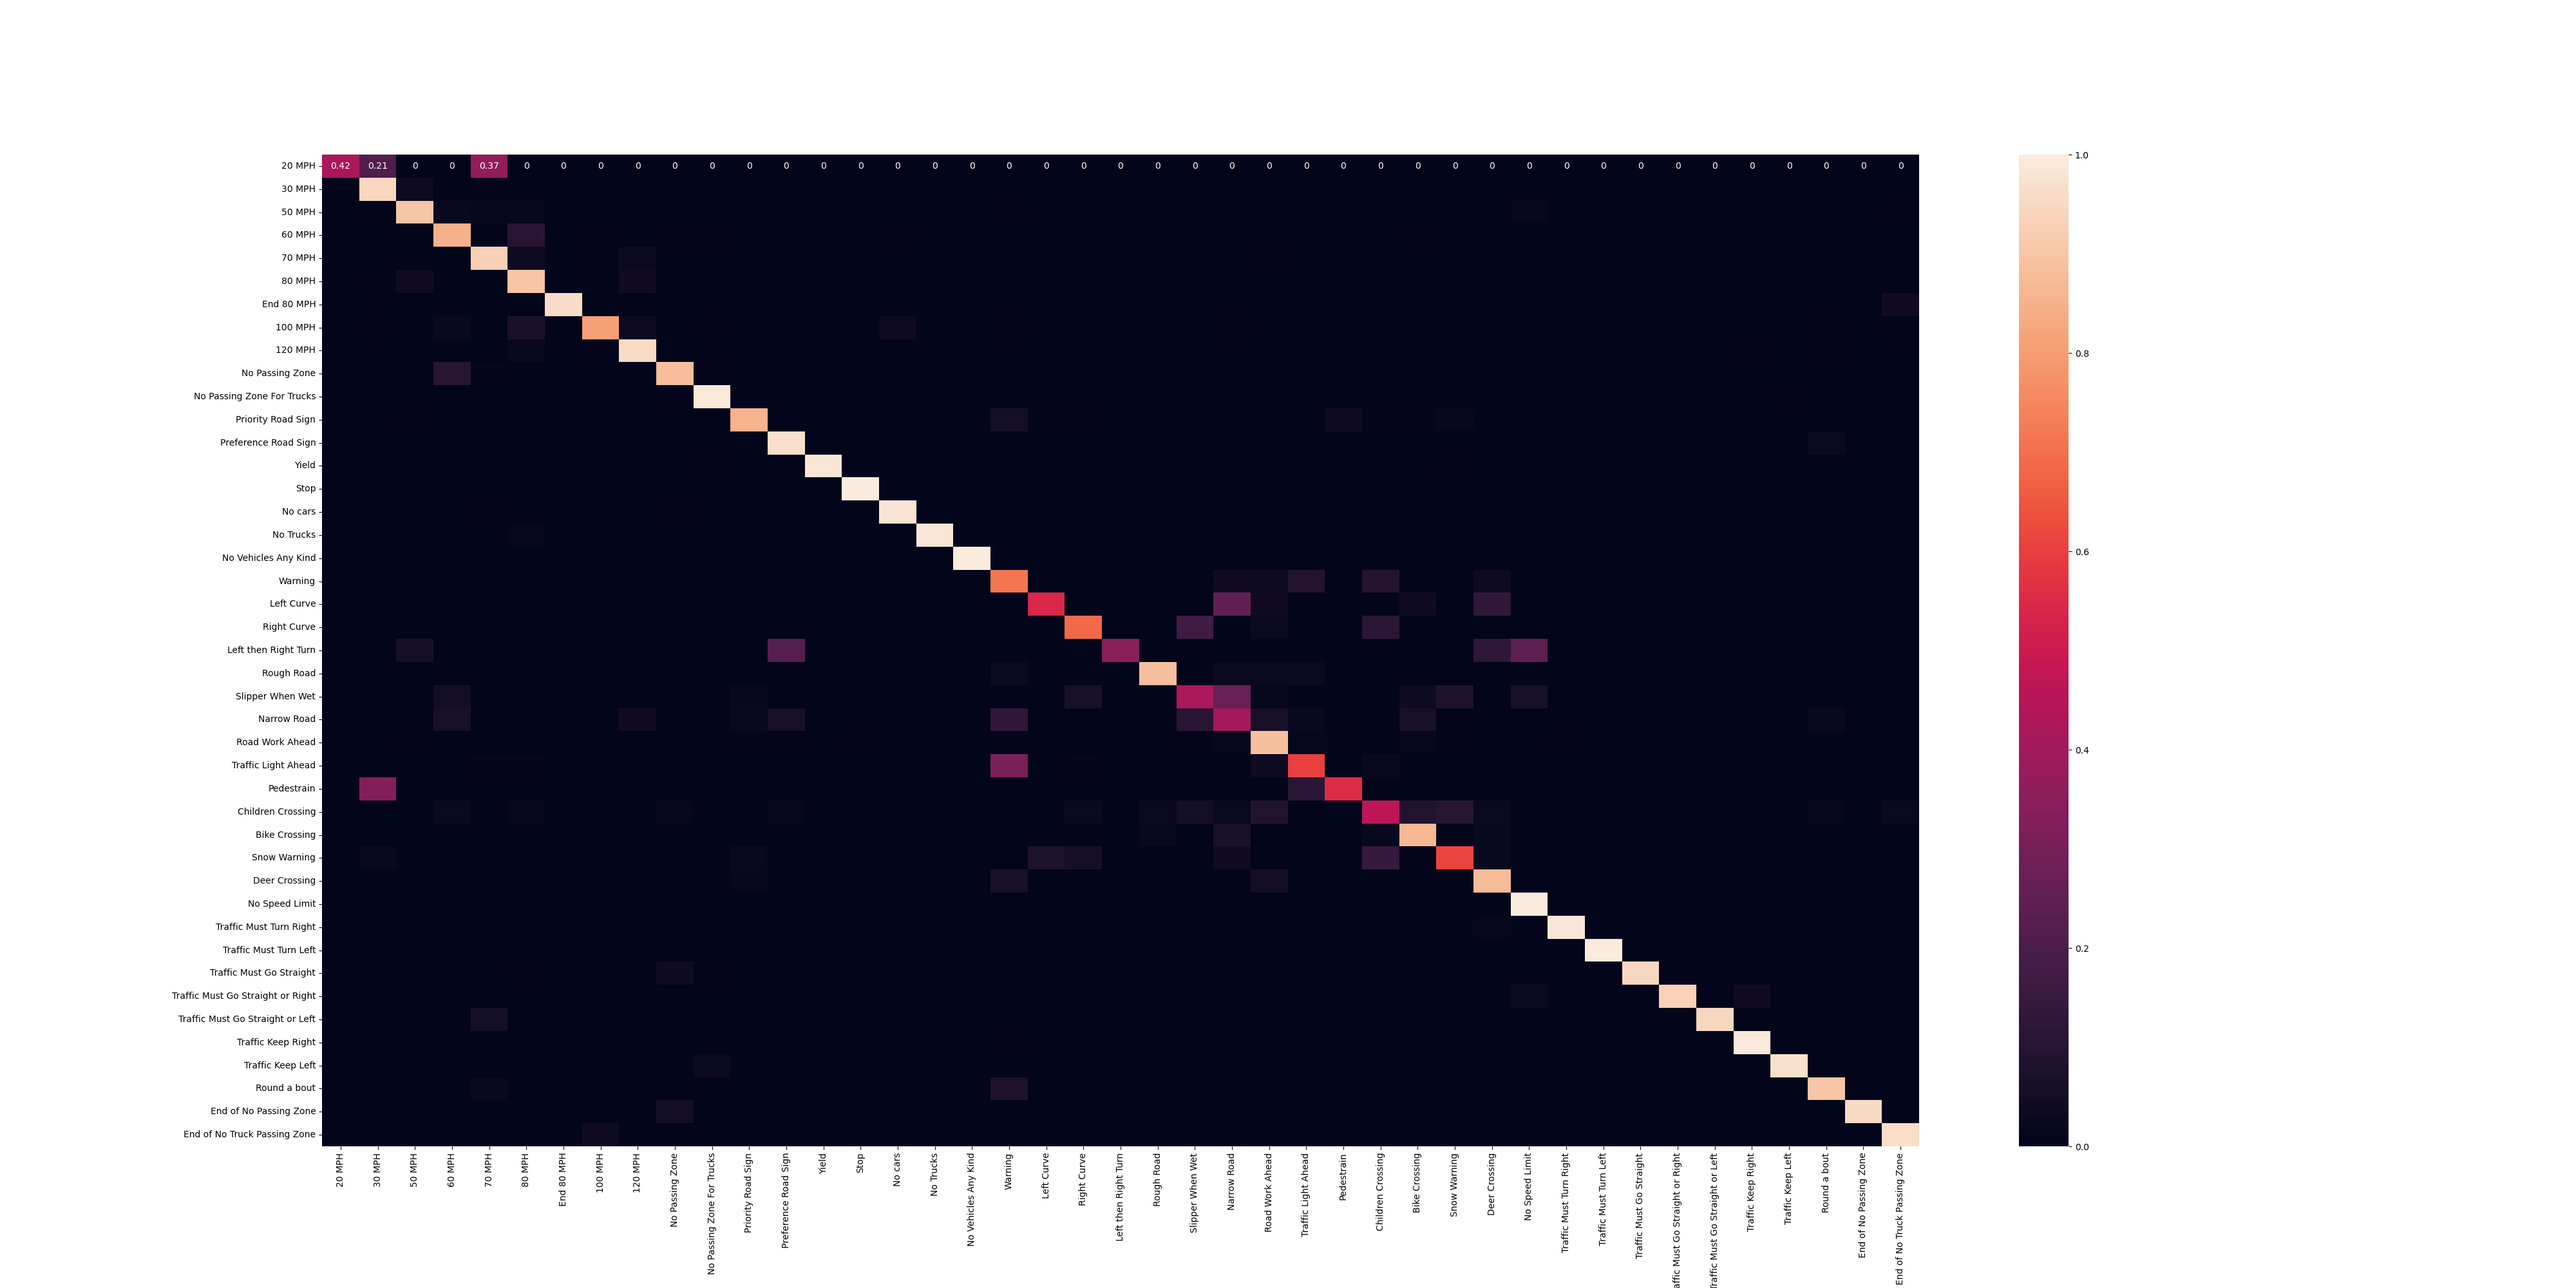
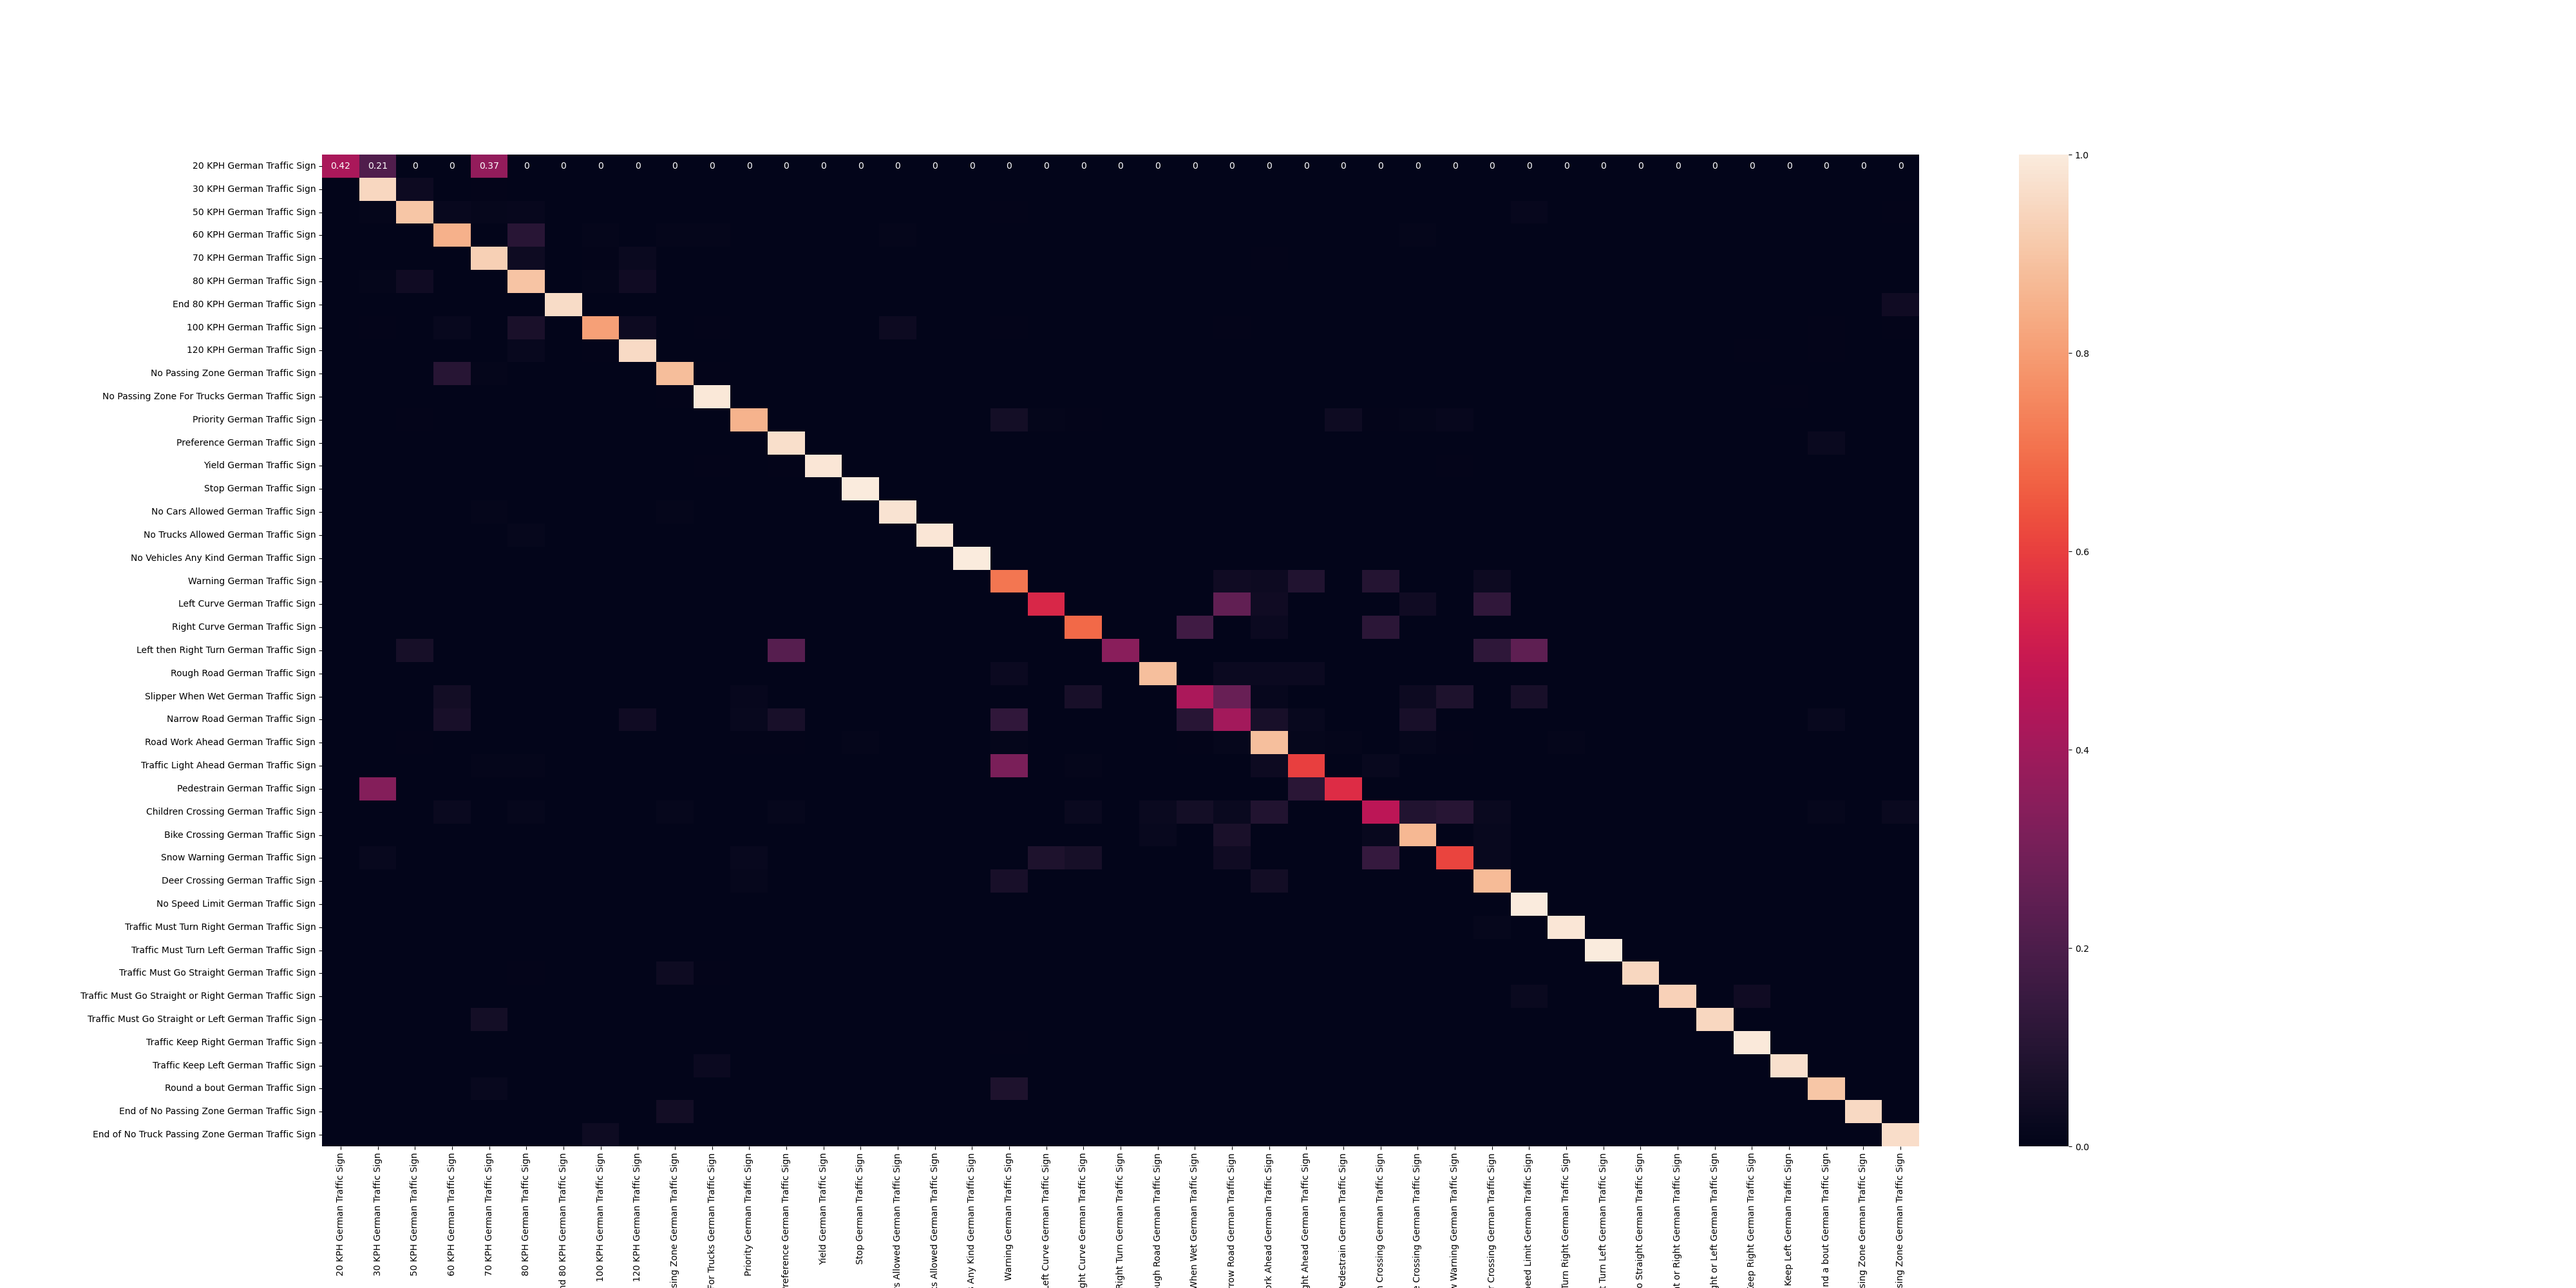
Add clip for fun

diff --git a/compareModels.py b/compareModels.py
@@ -11,6 +11,7 @@ from sklearn.metrics import confusion_matrix
 import seaborn as sb
 import matplotlib.pyplot as plt
 import numpy as np
+import clip
 
 
 # Get cpu, gpu or mps device for training.
@@ -31,17 +32,17 @@ modelName = "DNN_model.pth"
 if(os.path.isfile(modelDir+modelName)):
     model.load_state_dict(torch.load(modelDir+modelName))
     print("Loaded Model")
-print(model)
+#print(model)
 
 CNNModel = CNN().to(device)
 if(os.path.isfile(modelDir+modelName)):
     CNNModel.load_state_dict(torch.load(modelDir+"CNN_model.pth"))
     print("Loaded Model")
-print(CNNModel)
+#print(CNNModel)
 
 
 
-DataDir = "/home/albowler/projects/traffic_signs_project"
+DataDir = "/home/albowler/projects/old_traffic_signs_project"
 training_data = TrafficSignsDataset(os.path.join(DataDir, "TrainLabels.csv"), DataDir )
 
 test_data = TrafficSignsDataset(os.path.join(DataDir, "TestLabels.csv"), 
@@ -51,19 +52,57 @@ test_data = TrafficSignsDataset(os.path.join(DataDir, "TestLabels.csv"),
 batch_size = 64
 train_dataloader = DataLoader(training_data,  batch_size=batch_size)
 test_dataloader = DataLoader(test_data, batch_size=batch_size)
+loss_fn = nn.CrossEntropyLoss()
 
 
 
-encodingToLabels = ["20 MPH", "30 MPH", "50 MPH", "60 MPH", "70 MPH", "80 MPH", "End 80 MPH",
-                    "100 MPH", "120 MPH", "No Passing Zone", "No Passing Zone For Trucks", 
-                   "Priority Road Sign",  "Preference Road Sign", "Yield", "Stop", "No cars", 
-                   "No Trucks", "No Vehicles Any Kind", "Warning", "Left Curve", "Right Curve", 
-                   "Left then Right Turn", "Rough Road", "Slipper When Wet", "Narrow Road", 
-                   "Road Work Ahead", "Traffic Light Ahead", "Pedestrain", "Children Crossing",
-                   "Bike Crossing", "Snow Warning", "Deer Crossing", "No Speed Limit", "Traffic Must Turn Right",
-                   "Traffic Must Turn Left", "Traffic Must Go Straight", "Traffic Must Go Straight or Right",
-                   "Traffic Must Go Straight or Left", "Traffic Keep Right", "Traffic Keep Left", "Round a bout",
-                   "End of No Passing Zone", "End of No Truck Passing Zone"]
+
+encodingToLabels =  ["20 KPH German Traffic Sign", "30 KPH German Traffic Sign", "50 KPH German Traffic Sign", "60 KPH German Traffic Sign",
+                     "70 KPH German Traffic Sign", "80 KPH German Traffic Sign", "End 80 KPH German Traffic Sign",
+                    "100 KPH German Traffic Sign", "120 KPH German Traffic Sign", "No Passing Zone German Traffic Sign",
+                      "No Passing Zone For Trucks German Traffic Sign", "Priority German Traffic Sign",  "Preference German Traffic Sign",
+                    "Yield German Traffic Sign", "Stop German Traffic Sign", "No Cars Allowed German Traffic Sign", 
+                   "No Trucks Allowed German Traffic Sign", "No Vehicles Any Kind German Traffic Sign", "Warning German Traffic Sign",
+                     "Left Curve German Traffic Sign", "Right Curve German Traffic Sign", "Left then Right Turn German Traffic Sign",
+                       "Rough Road German Traffic Sign", "Slipper When Wet German Traffic Sign", "Narrow Road German Traffic Sign", 
+                   "Road Work Ahead German Traffic Sign", "Traffic Light Ahead German Traffic Sign", "Pedestrain German Traffic Sign",
+                     "Children Crossing German Traffic Sign", "Bike Crossing German Traffic Sign", "Snow Warning German Traffic Sign",
+                       "Deer Crossing German Traffic Sign", "No Speed Limit German Traffic Sign", "Traffic Must Turn Right German Traffic Sign",
+                   "Traffic Must Turn Left German Traffic Sign", "Traffic Must Go Straight German Traffic Sign", 
+                   "Traffic Must Go Straight or Right German Traffic Sign", "Traffic Must Go Straight or Left German Traffic Sign",
+                     "Traffic Keep Right German Traffic Sign", "Traffic Keep Left German Traffic Sign", "Round a bout German Traffic Sign",
+                   "End of No Passing Zone German Traffic Sign", "End of No Truck Passing Zone German Traffic Sign"]
+
+
+
+# ["20 KPH German Traffic Sign", "30 KPH German Traffic Sign", "50 KPH German Traffic Sign", "60 KPH German Traffic Sign",
+#                      "70 KPH German Traffic Sign", "80 KPH German Traffic Sign", "End 80 KPH German Traffic Sign",
+#                     "100 KPH German Traffic Sign", "120 KPH German Traffic Sign", "No Passing Zone German Traffic Sign",
+#                       "No Passing Zone For Trucks German Traffic Sign", "Priority German Traffic Sign",  "Preference German Traffic Sign",
+#                     "Yield German Traffic Sign", "Stop German Traffic Sign", "No Cars Allowed German Traffic Sign", 
+#                    "No Trucks Allowed German Traffic Sign", "No Vehicles Any Kind German Traffic Sign", "Warning German Traffic Sign",
+#                      "Left Curve German Traffic Sign", "Right Curve German Traffic Sign", "Left then Right Turn German Traffic Sign",
+#                        "Rough Road German Traffic Sign", "Slipper When Wet German Traffic Sign", "Narrow Road German Traffic Sign", 
+#                    "Road Work Ahead German Traffic Sign", "Traffic Light Ahead German Traffic Sign", "Pedestrain German Traffic Sign",
+#                      "Children Crossing German Traffic Sign", "Bike Crossing German Traffic Sign", "Snow Warning German Traffic Sign",
+#                        "Deer Crossing German Traffic Sign", "No Speed Limit German Traffic Sign", "Traffic Must Turn Right German Traffic Sign",
+#                    "Traffic Must Turn Left German Traffic Sign", "Traffic Must Go Straight German Traffic Sign", 
+#                    "Traffic Must Go Straight or Right German Traffic Sign", "Traffic Must Go Straight or Left German Traffic Sign",
+#                      "Traffic Keep Right German Traffic Sign", "Traffic Keep Left German Traffic Sign", "Round a bout German Traffic Sign",
+#                    "End of No Passing Zone German Traffic Sign", "End of No Truck Passing Zone German Traffic Sign"]
+# ["20 MPH", "30 MPH", "50 MPH", "60 MPH", "70 MPH", "80 MPH", "End 80 MPH",
+#                     "100 MPH", "120 MPH", "No Passing Zone", "No Passing Zone For Trucks", 
+#                    "Priority Road Sign",  "Preference Road Sign", "Yield", "Stop", "No cars", 
+#                    "No Trucks", "No Vehicles Any Kind", "Warning", "Left Curve", "Right Curve", 
+#                    "Left then Right Turn", "Rough Road", "Slipper When Wet", "Narrow Road", 
+#                    "Road Work Ahead", "Traffic Light Ahead", "Pedestrain", "Children Crossing",
+#                    "Bike Crossing", "Snow Warning", "Deer Crossing", "No Speed Limit", "Traffic Must Turn Right",
+#                    "Traffic Must Turn Left", "Traffic Must Go Straight", "Traffic Must Go Straight or Right",
+#                    "Traffic Must Go Straight or Left", "Traffic Keep Right", "Traffic Keep Left", "Round a bout",
+#                    "End of No Passing Zone", "End of No Truck Passing Zone"]
+
+
+#
 
 
 def test(dataloader, len_dataset, model, loss_fn, ret_y_pred = False):
@@ -87,8 +126,29 @@ def test(dataloader, len_dataset, model, loss_fn, ret_y_pred = False):
     print(f"Test Error: \n Accuracy: {(100*correct):>0.1f}%, Avg loss: {test_loss:>8f} \n")
     if(ret_y_pred):
         return y_pred
+    
+def CLIP_test():
+    clip_model, clip_preprocess = clip.load("ViT-B/32", device = device)
+    label_tokens = clip.tokenize(encodingToLabels).to(device)
+    test_csv = pd.read_csv(os.path.join(DataDir, 'TestLabels.csv'))
+    processed_images = []
 
-loss_fn = nn.CrossEntropyLoss()
+    for row in range(test_csv.shape[0]):
+        processed_images.append(clip_preprocess(Image.open(os.path.join(DataDir,test_csv.iloc[row,0]))))
+    y_true = torch.tensor(test_csv.iloc[:,1]).to(device)
+
+    processed_images = torch.stack(processed_images).to(device)
+    with torch.no_grad():
+        logits_per_image, logits_per_text = clip_model(processed_images, label_tokens)
+        y_pred = logits_per_image.argmax(dim = -1)
+        
+        # print(y_pred[:10])
+        # print(y_true[:10])
+        y_match = (y_pred == y_true).type(torch.float).mean()
+    print(f"CLIP model Test Error: \n Accuracy: {y_match.item():>0.1f}%\n")
+
+CLIP_test()
+
 
 print("DNN Train Dataset Accuracy: ")
 test(train_dataloader, len(training_data), model, loss_fn)

diff --git a/trafficDataPreprocessor.py b/trafficDataPreprocessor.py
@@ -5,28 +5,28 @@ import pandas as pd
 #preprocessing the Train dataset
 dataPath = "./curTrain/"
 dimSize = 45
-# for label, dir in enumerate(os.listdir(dataPath)):
-#     for imgName in os.listdir(dataPath+dir):
-#         img = Image.open(dataPath+dir+"/"+imgName)
-#         imgWidth, imgHeight = img.size
-#         if(imgWidth >= dimSize
-#             and imgHeight >= dimSize and imgHeight/imgWidth < 1.1 and imgWidth/imgHeight < 1.1):
-#             img = img.resize((dimSize,dimSize))
-#             img.save(dataPath+dir+"/"+imgName)
-#         else:
-#             os.remove(dataPath+dir+"/"+imgName)
+for label, dir in enumerate(os.listdir(dataPath)):
+    for imgName in os.listdir(dataPath+dir):
+        img = Image.open(dataPath+dir+"/"+imgName)
+        imgWidth, imgHeight = img.size
+        if(imgWidth >= dimSize
+            and imgHeight >= dimSize and imgHeight/imgWidth < 1.1 and imgWidth/imgHeight < 1.1):
+            img = img.resize((dimSize,dimSize))
+            img.save(dataPath+dir+"/"+imgName)
+        else:
+            os.remove(dataPath+dir+"/"+imgName)
 
 
-# #preprocessing Test dataset
-# dataPath = "./curTest/"
-# for imgName in os.listdir(dataPath):
-#     img = Image.open(dataPath+imgName)
-#     imgWidth, imgHeight = img.size
-#     if(imgWidth >= dimSize and imgHeight >= dimSize and imgHeight/imgWidth < 1.1 and imgWidth/imgHeight < 1.1):
-#         img = img.resize((dimSize,dimSize))
-#         img.save(dataPath+imgName)
-#     else:
-#         os.remove(dataPath+imgName)
+#preprocessing Test dataset
+dataPath = "./curTest/"
+for imgName in os.listdir(dataPath):
+    img = Image.open(dataPath+imgName)
+    imgWidth, imgHeight = img.size
+    if(imgWidth >= dimSize and imgHeight >= dimSize and imgHeight/imgWidth < 1.1 and imgWidth/imgHeight < 1.1):
+        img = img.resize((dimSize,dimSize))
+        img.save(dataPath+imgName)
+    else:
+        os.remove(dataPath+imgName)
 
 
 trainDf = pd.read_csv("Test.csv")
